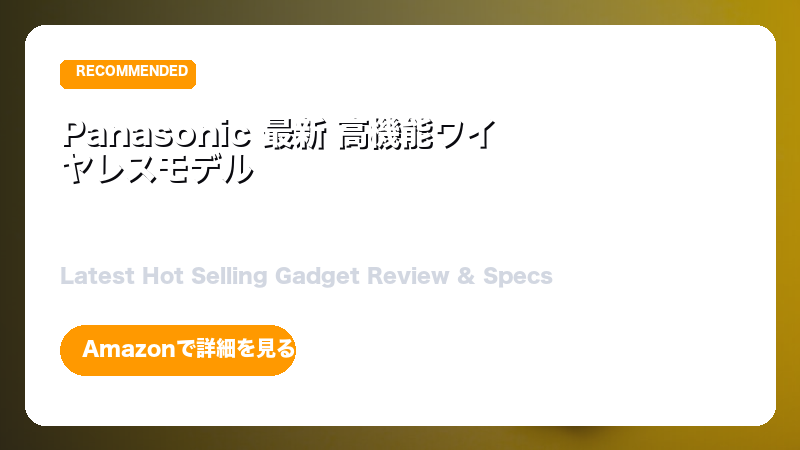
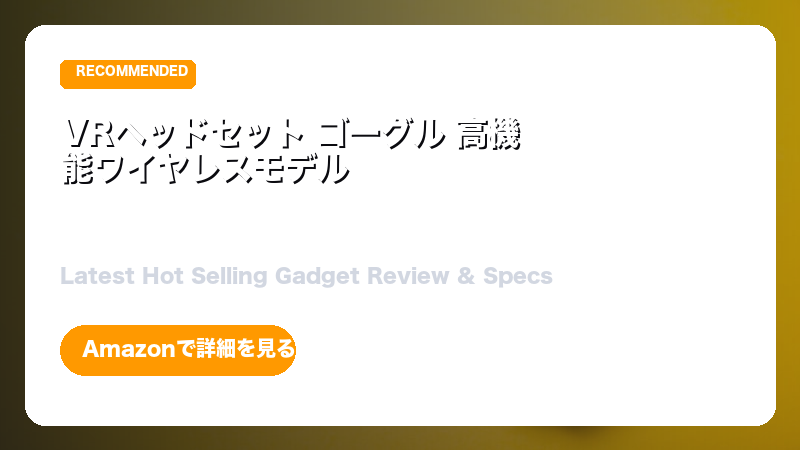
feat: replace brands with 60+ diverse gadget categories for random selection

Changed region(s): [[0.0625, 0.2489, 0.6562, 0.4044]]

diff --git a/rakuten_api.py b/rakuten_api.py
@@ -34,24 +34,69 @@ def clean_product_title(title: str) -> str:
         
     return cleaned
 
-# ガジェット・家電・PC・便利グッズの検索キーワードプール
-GADGET_BRANDS = [
-    "Anker", "Logicool", "Sony", "Audio-Technica", "Shokz", "Sennheiser",
-    "Bose", "SwitchBot", "Nature Remo", "CIO", "UGREEN", "Belkin",
-    "Keychron", "HHKB", "REALFORCE", "BenQ", "Dell", "ASUS", "MSI",
-    "ELECOM", "BUFFALO", "サンワダイレクト", "アイリスオーヤマ",
-    "バルミューダ", "Panasonic", "Dyson", "シャープ", "山善"
-]
-
+# 多様なガジェット・家電・PC・デスク環境・スマートホームカテゴリ（60種以上）
 GADGET_CATEGORIES = [
-    "ワイヤレスイヤホン", "ノイズキャンセリング ヘッドホン", "骨伝導イヤホン",
-    "急速充電器 GaN", "モバイルバッテリー 大容量", "マグネット充電器", "USB-C ハブ",
-    "ワイヤレスマウス 静音", "メカニカルキーボード", "トラックボールマウス",
-    "スマートリモコン", "スマートプラグ", "ロボット掃除機", "温湿度計 スマート",
-    "モニターライト デスクライト", "PCスピーカー", "ウェブカメラ 4K",
-    "ポータブル電源", "デスクマット", "ノートパソコンスタンド",
-    "スマートウォッチ 防水", "コーヒーメーカー 全自動", "電気ケトル 温度調節",
-    "ヘアドライヤー ナノケア", "サーキュレーター 静音", "加湿器 超音波"
+    "完全ワイヤレスイヤホン",
+    "ノイズキャンセリング ヘッドホン",
+    "骨伝導イヤホン",
+    "オープンイヤー イヤホン",
+    "モバイルバッテリー 大容量",
+    "GaN 急速充電器",
+    "3in1 ワイヤレス充電スタンド",
+    "MagSafe モバイルバッテリー",
+    "USB-C ハブ ドッキングステーション",
+    "メカニカルキーボード",
+    "静音 ワイヤレスマウス",
+    "エルゴノミクス トラックボールマウス",
+    "デスクマット 大型",
+    "モニターライト スクリーンバー",
+    "ノートパソコンスタンド アルミ",
+    "モバイルモニター ポータブル",
+    "PCスピーカー Bluetooth",
+    "USB コンデンサーマイク",
+    "ウェブカメラ 4K 高画質",
+    "ポータブル電源 大容量",
+    "ソーラーチャージャー 折りたたみ",
+    "スマートウォッチ 防水",
+    "スマートリング 健康管理",
+    "スマートリモコン",
+    "スマートプラグ Wi-Fi",
+    "スマートロック 自動施錠",
+    "スマート温湿度計",
+    "ロボット掃除機 水拭き",
+    "ハンディクリーナー コードレス",
+    "電動エアダスター 強力",
+    "ポータブル スキャナー",
+    "ラベルライター スマホ接続",
+    "電子ペーパー 電子ノート",
+    "電子書籍リーダー",
+    "ポータブルプロジェクター 小型",
+    "外付けSSD ポータブル 高速",
+    "ゲーミングヘッドセット 7.1ch",
+    "ゲーミングマウス 超軽量",
+    "ケーブルホルダー マグネット 配線整理",
+    "デスク下 ケーブルトレー",
+    "LEDテープライト デスク 間接照明",
+    "サーキュレーター 静音 DCモーター",
+    "超音波加湿器 卓上",
+    "空気清浄機 小型 卓上",
+    "電気ケトル 温度調節",
+    "全自動コーヒーメーカー",
+    "タンブラー 保温 保冷 デスク",
+    "ヘアドライヤー 速乾 大風量",
+    "電動歯ブラシ 音波振動",
+    "スマホ ジンバル スタビライザー",
+    "アクションカメラ 4K",
+    "デジタルフォトフレーム Wi-Fi",
+    "VRヘッドセット ゴーグル",
+    "スマートトラッカー 紛失防止タグ",
+    "USB切替器 PC2台用",
+    "モニターアーム デュアル シングル",
+    "フットレスト デスク下",
+    "Bluetooth トランスミッター 受信機",
+    "ポータブルDAC ヘッドホンアンプ",
+    "骨伝導集音器",
+    "デスクヒーター パネルヒーター"
 ]
 
 class RakutenAPI:
@@ -62,14 +107,8 @@ class RakutenAPI:
 
     @staticmethod
     def generate_random_keyword() -> str:
-        """ブランド名とカテゴリを組み合わせた多様な検索クエリを生成"""
-        mode = random.choice(["brand_category", "brand", "category"])
-        if mode == "brand_category":
-            return f"{random.choice(GADGET_BRANDS)} {random.choice(GADGET_CATEGORIES)}"
-        elif mode == "brand":
-            return f"{random.choice(GADGET_BRANDS)} 最新"
-        else:
-            return f"{random.choice(GADGET_CATEGORIES)} 人気"
+        """60種以上のガジェットカテゴリから均等・ランダムに選定"""
+        return random.choice(GADGET_CATEGORIES)
 
     def search_items(self, keyword: str, hits: int = 30) -> List[Dict[str, Any]]:
         """楽天商品検索APIから最新・人気アイテムを取得"""
